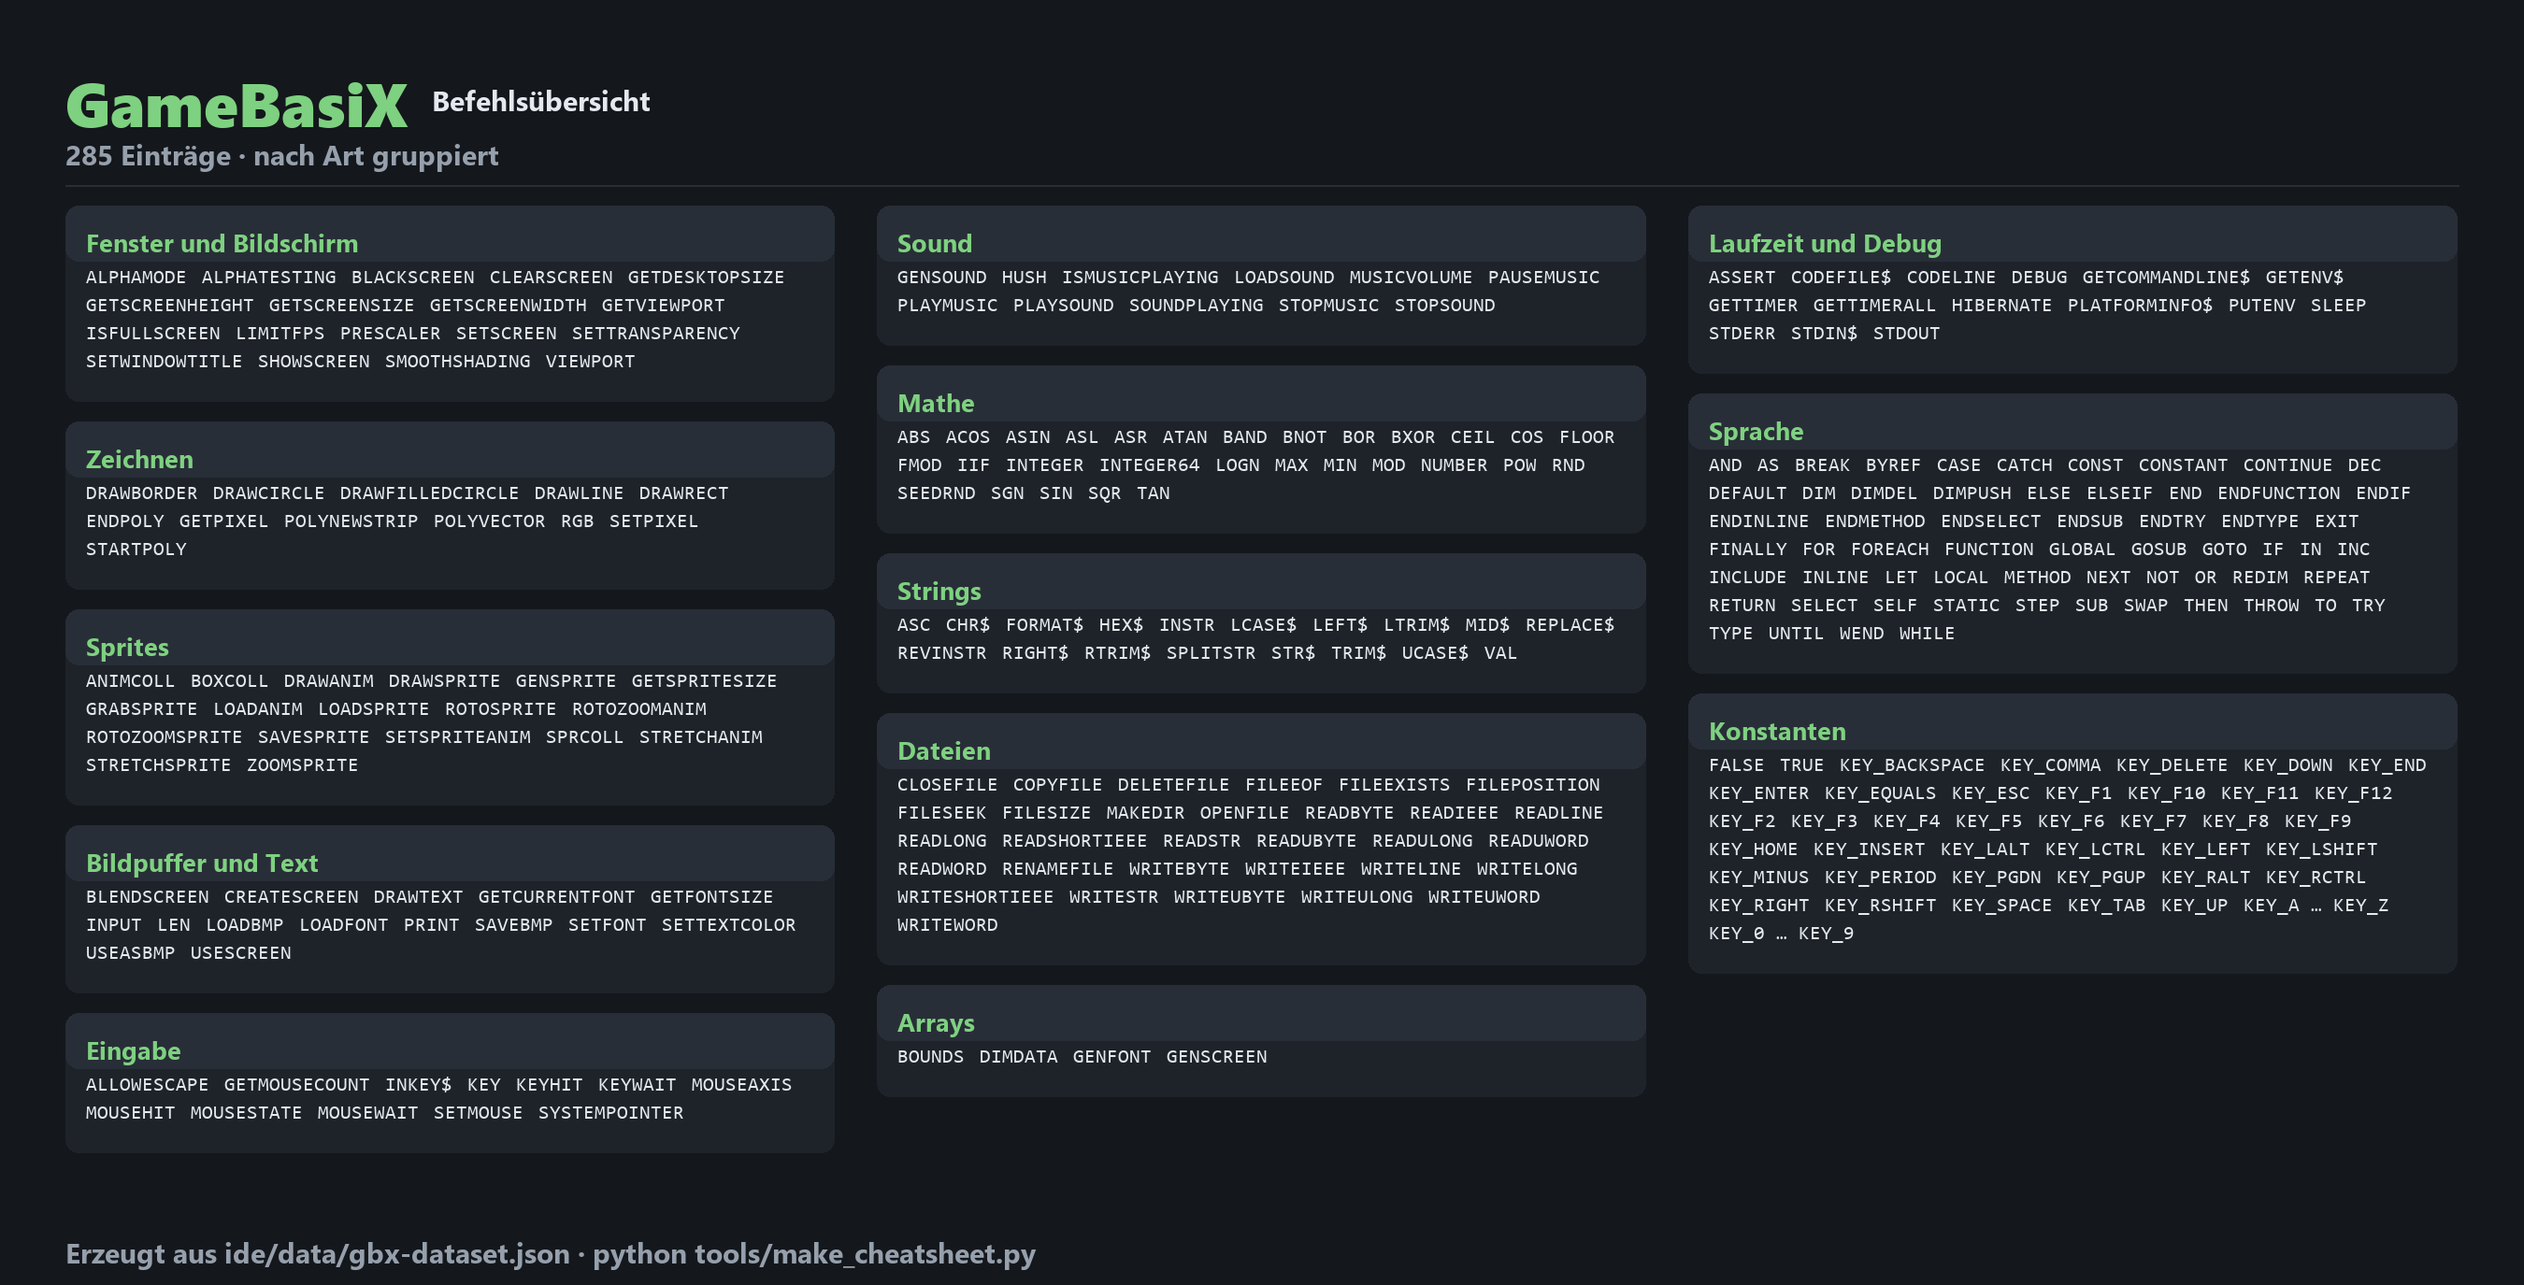
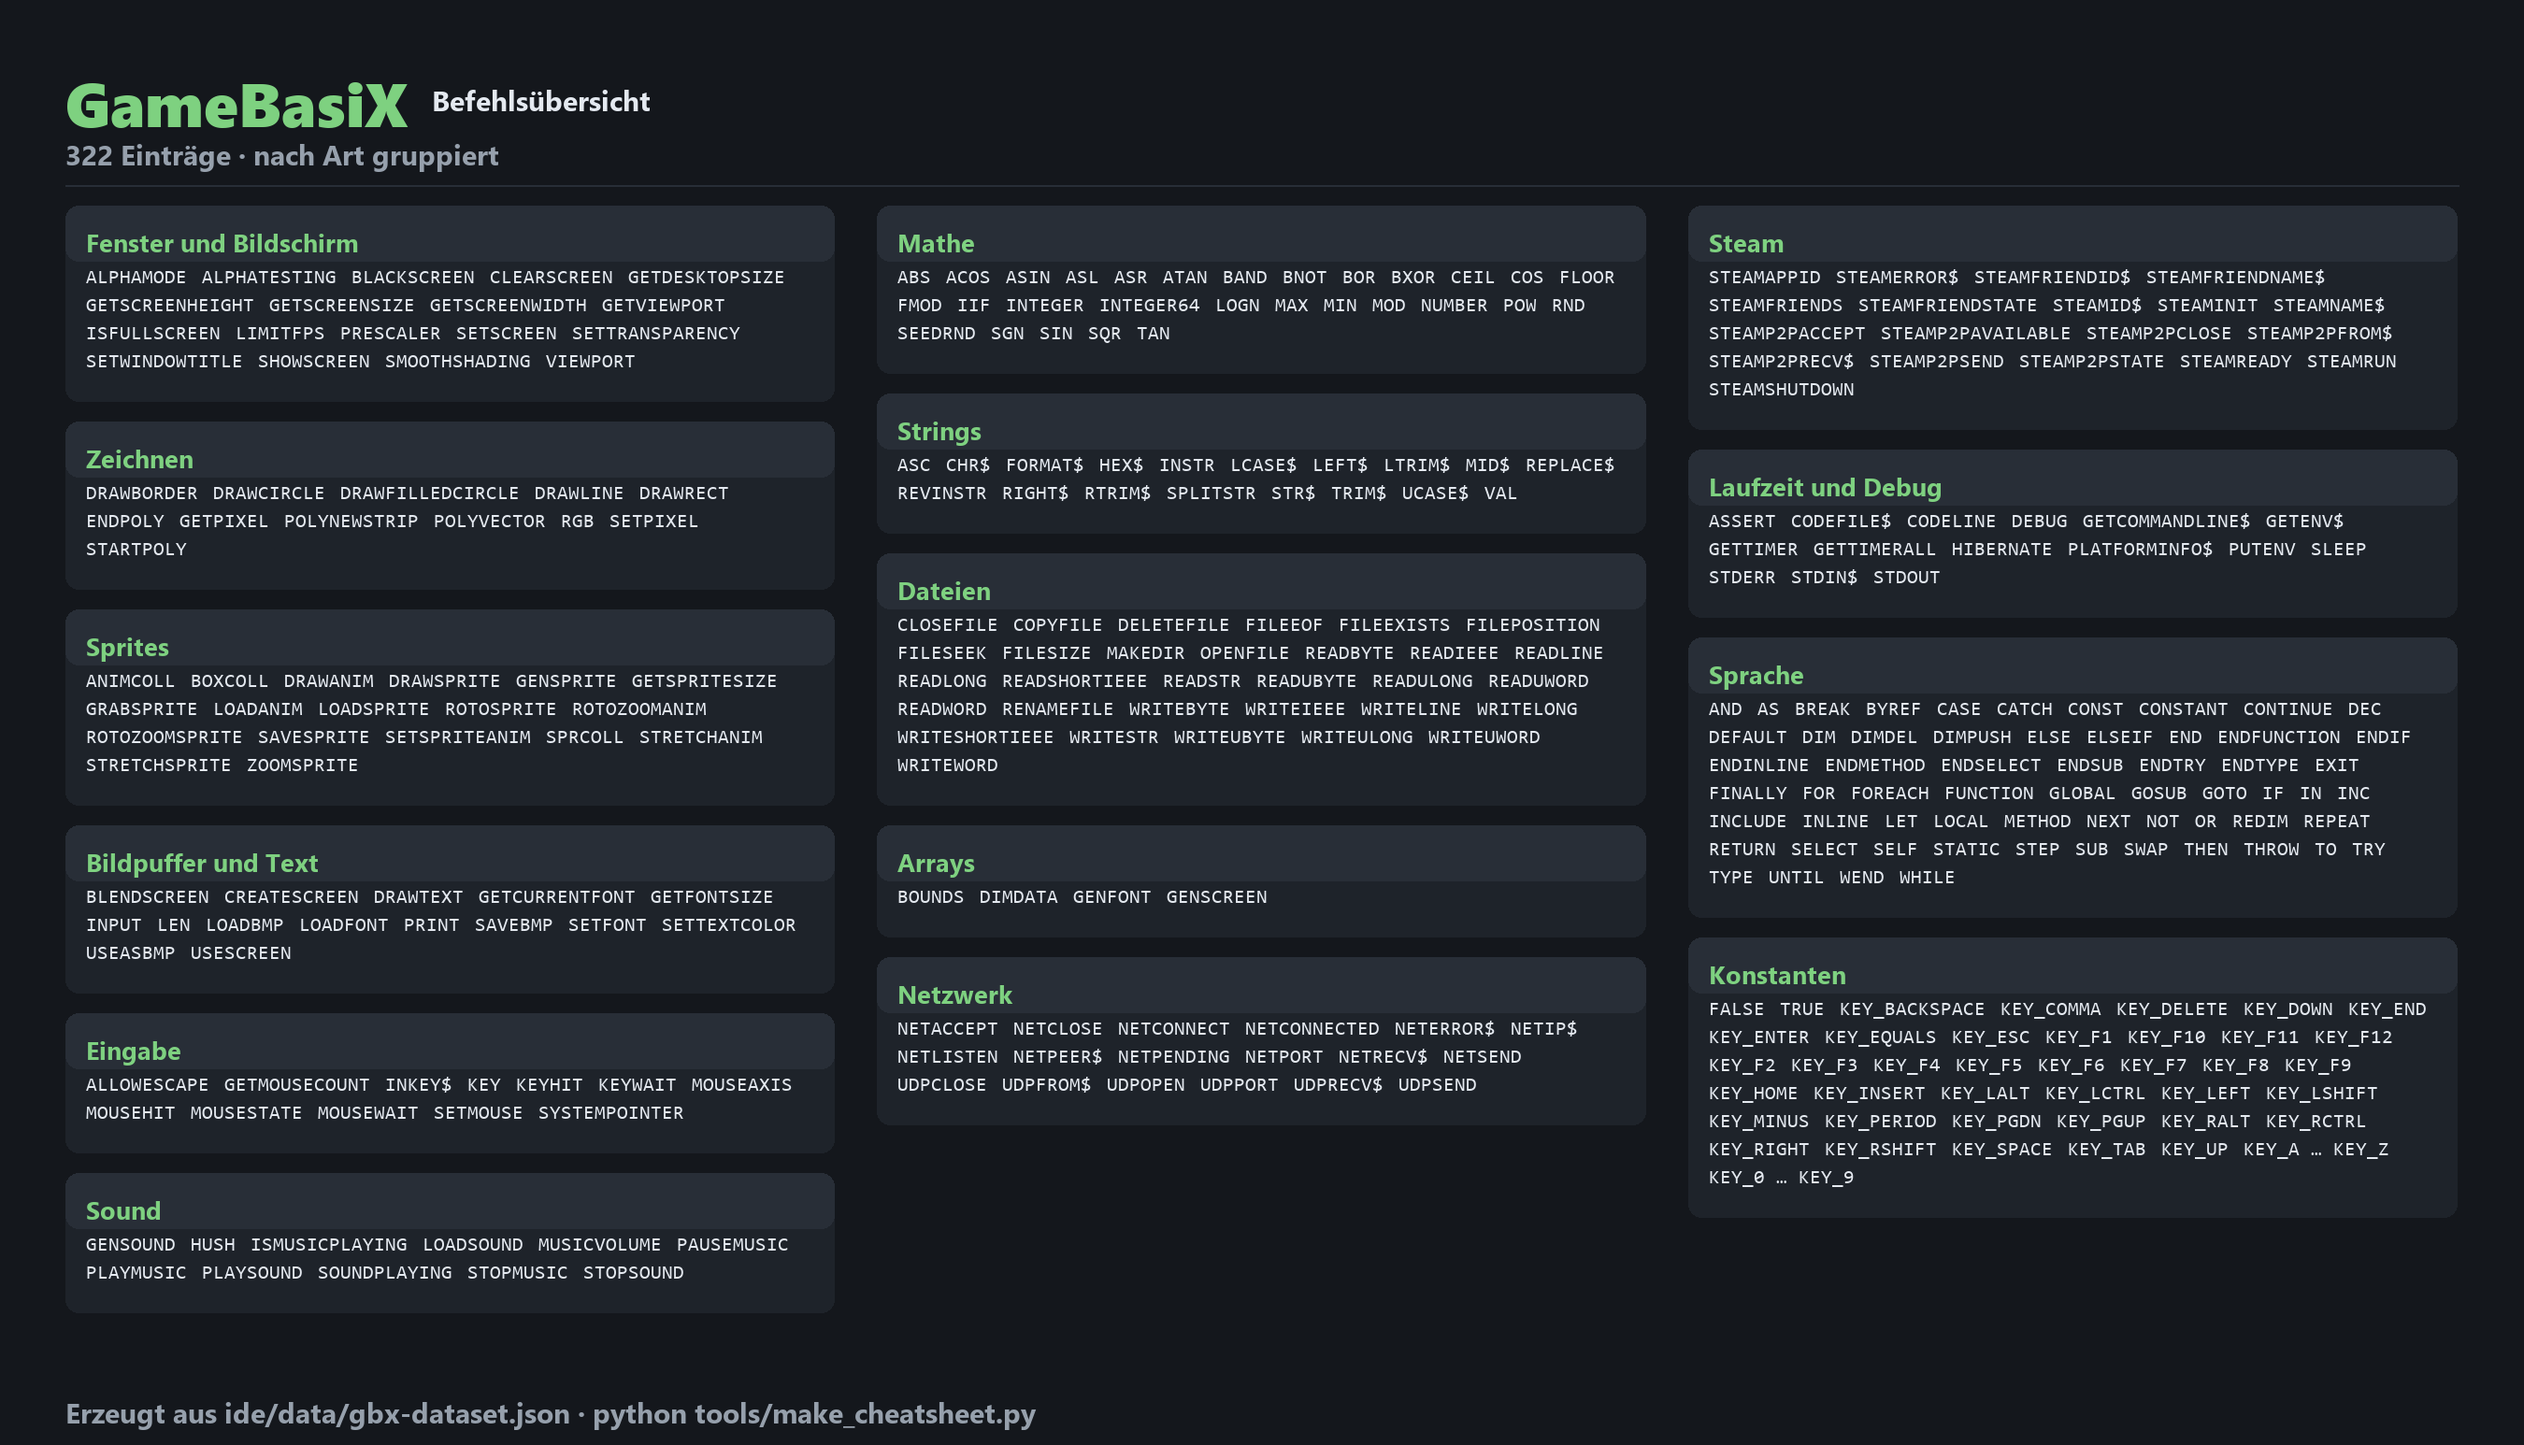
Give network and Steam their own groups on the cheat sheet
The generated sheet dropped both new command families at the end of the
list, where nobody looks for them. They now sit between arrays and the
runtime commands, so the printed reference follows the order of the
README and the cheat sheet text.

🤖 Generated with Codebuff

Changed region(s): [[0.0311, 0.0611, 0.9644, 0.8858], [0.6533, 0.3055, 0.9644, 0.8247], [0.0311, 0.9469, 0.4044, 1.0]]

diff --git a/tools/make_cheatsheet.py b/tools/make_cheatsheet.py
@@ -34,6 +34,8 @@ ORDER = [
     "Strings",
     "Dateien",
     "Arrays",
+    "Netzwerk",
+    "Steam",
     "Laufzeit und Debug",
     "Sprache",
     "Konstanten",
@@ -50,6 +52,8 @@ CATEGORY_EN = {
     "Strings": "Strings",
     "Dateien": "Files",
     "Arrays": "Arrays",
+    "Netzwerk": "Network",
+    "Steam": "Steam",
     "Laufzeit und Debug": "Runtime and debug",
     "Sprache": "Language",
     "Konstanten": "Constants",
